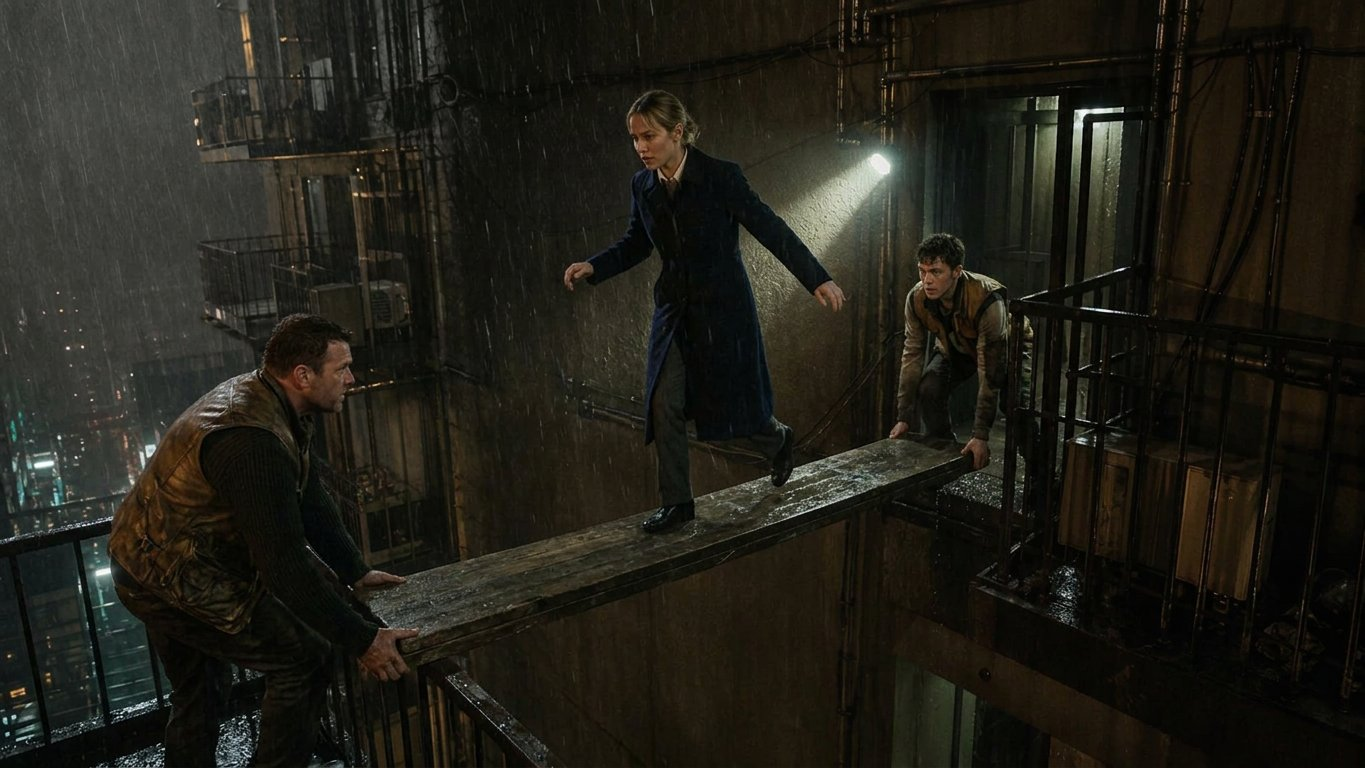
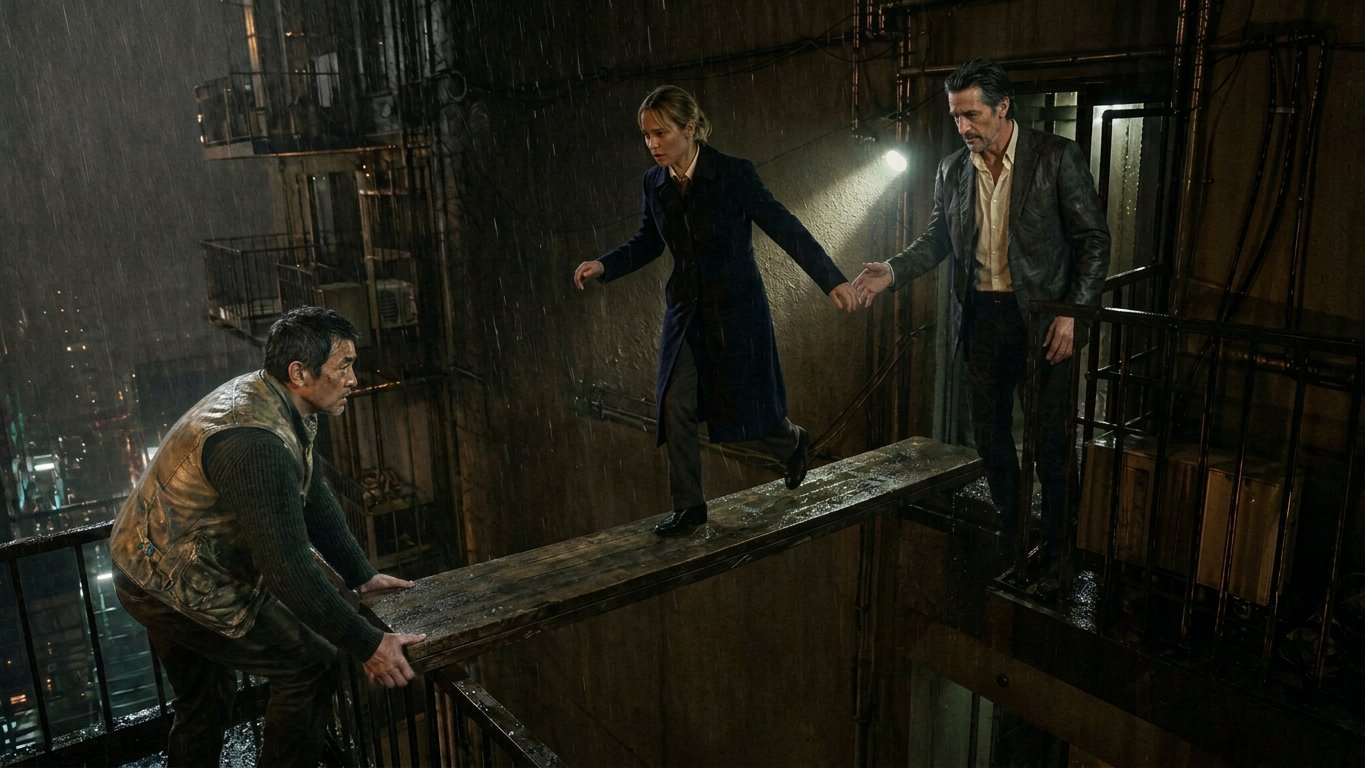
The plank (shot 381): a Japanese resident holds it, Jack waits for Vera

diff --git a/FILM.md b/FILM.md
@@ -8,6 +8,11 @@ One scene node per film scene; every shot is a dialogue beat's background, so th
 
 
 
+
+## The plank, redrawn (16 October 2026)
+
+The director: *"A plank across the gap, hauled in after — change the image, should have a Japanese man holding the plank while Jack waits for Vera to pass."* `public/film/img/s90/381-the-plank.jpg` is remade from the old picture (same framing, rain and balconies): a Japanese Hive resident in the work vest braces the near end, Vera crosses in the blue coat, and Jack waits on the far balcony with a hand out for hers. The file keeps its number and name, so the raid run, its caption and `pictureLook` are untouched. **Note for a PlayFrame re-import:** shot 381 there still has the old picture; the build copies `public/img` over the top when the visual novel checkout is next door, which would bring the old one back.
+
 ## Hounds plays once and runs on past the raid (16 October 2026)
 
 The director: *"hounds plays only once, no loop, then continue playing through; it should finish anyway before Vera's apartment."* The inn raid cutscene no longer stretches its shots to the song: `songRunsOn: true` on the `inn-raid` entry in `src/film/studio-edits.json` → `cutscenes`. The 35 shots now play at their own pace (about 87 s), *Hounds* (106 s, `musicLoop: false`, as before) keeps playing under **50, Hand starts to shake** and **51, The model, corrected** and ends by itself; scene 50 no longer fades it. **52, Vera's apartment** starts *Dark Hills Blues* as before, so a fast reader who gets there first hears a crossfade rather than a cut. Builder flag in `tools/build-film-story.mjs`; backend checks.
